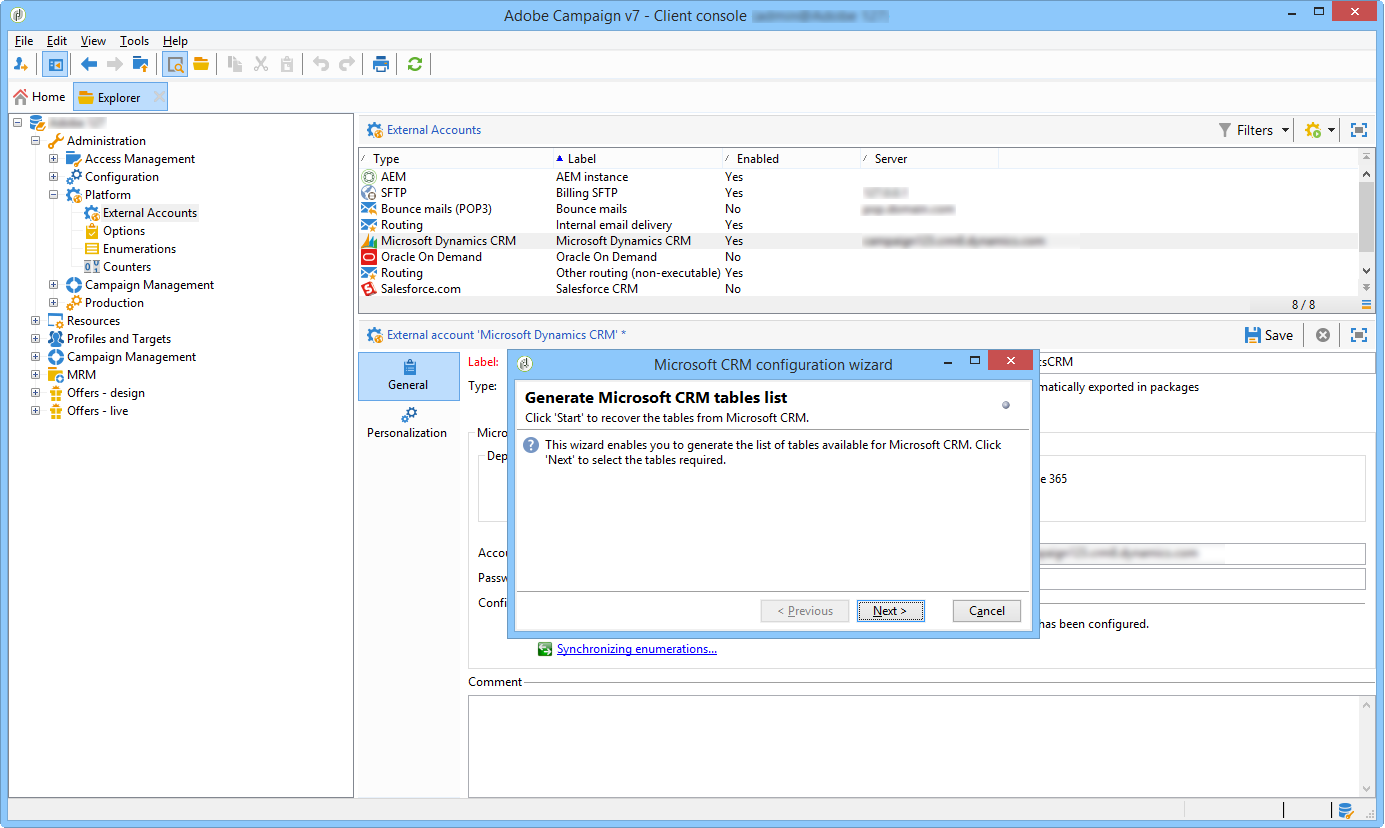
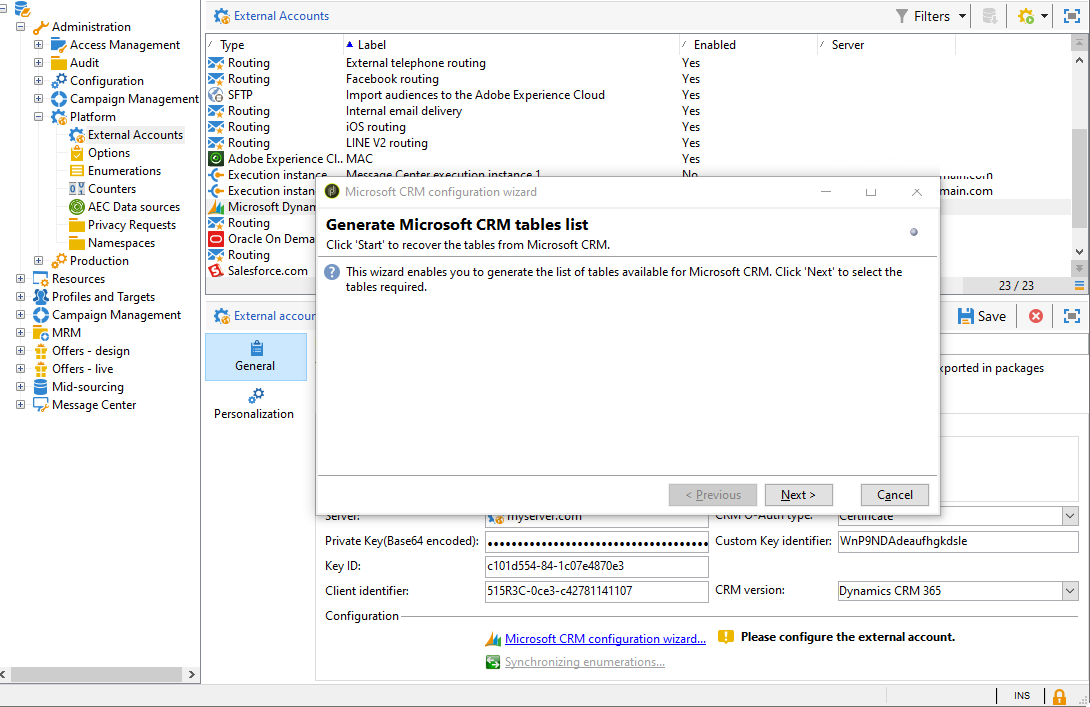
in progress

Changed region(s): [[0.0, 0.0, 1.0, 1.0]]

diff --git a/help/platform/using/crm-ms-dynamics.md b/help/platform/using/crm-ms-dynamics.md
@@ -123,13 +123,7 @@ To connect Microsoft Dynamics 365 and Campaign, you need to create and configure
 
 1. Navigate to **[!UICONTROL Administration > Platform > External accounts]**.
 
-1. Create a new external account, select the type **[!UICONTROL Microsoft Dynamics CRM]** and the **[!UICONTROL Enable]** option.
-
-1. Select the **[!UICONTROL Web API]**  deployment type: 
-
-   Adobe Campaign Classic supports the Dynamics 365 REST interface with OAuth protocol for authentication with a **[!UICONTROL Certificate]** or **[!UICONTROL Password Credentials]**.
-
-   Use the settings [defined previously](#get-client-id-microsoft) in Azure Directory to configure the external account. 
+1. Select the **[!UICONTROL Microsoft Dynamics CRM]** external account. Check the **[!UICONTROL Enabled]** option.
 
    ![](assets/crm-ms-dynamics-ext-account.png)
 
@@ -137,7 +131,7 @@ To connect Microsoft Dynamics 365 and Campaign, you need to create and configure
    >
    >Microsoft Dynamics CRM External account configuration is detailed [in this section](../../installation/using/external-accounts.md#microsoft-dynamics-crm-external-account).
 
-1. Click the **[!UICONTROL Microsoft CRM configuration wizard...]** link: Adobe Campaign automatically detects the tables from the Microsoft Dynamics data template.
+1. Click the **[!UICONTROL Microsoft CRM configuration wizard...]** link. Adobe Campaign automatically detects the tables from the Microsoft Dynamics data template.
 
    ![](assets/crm_connectors_msdynamics_02.png)
 
